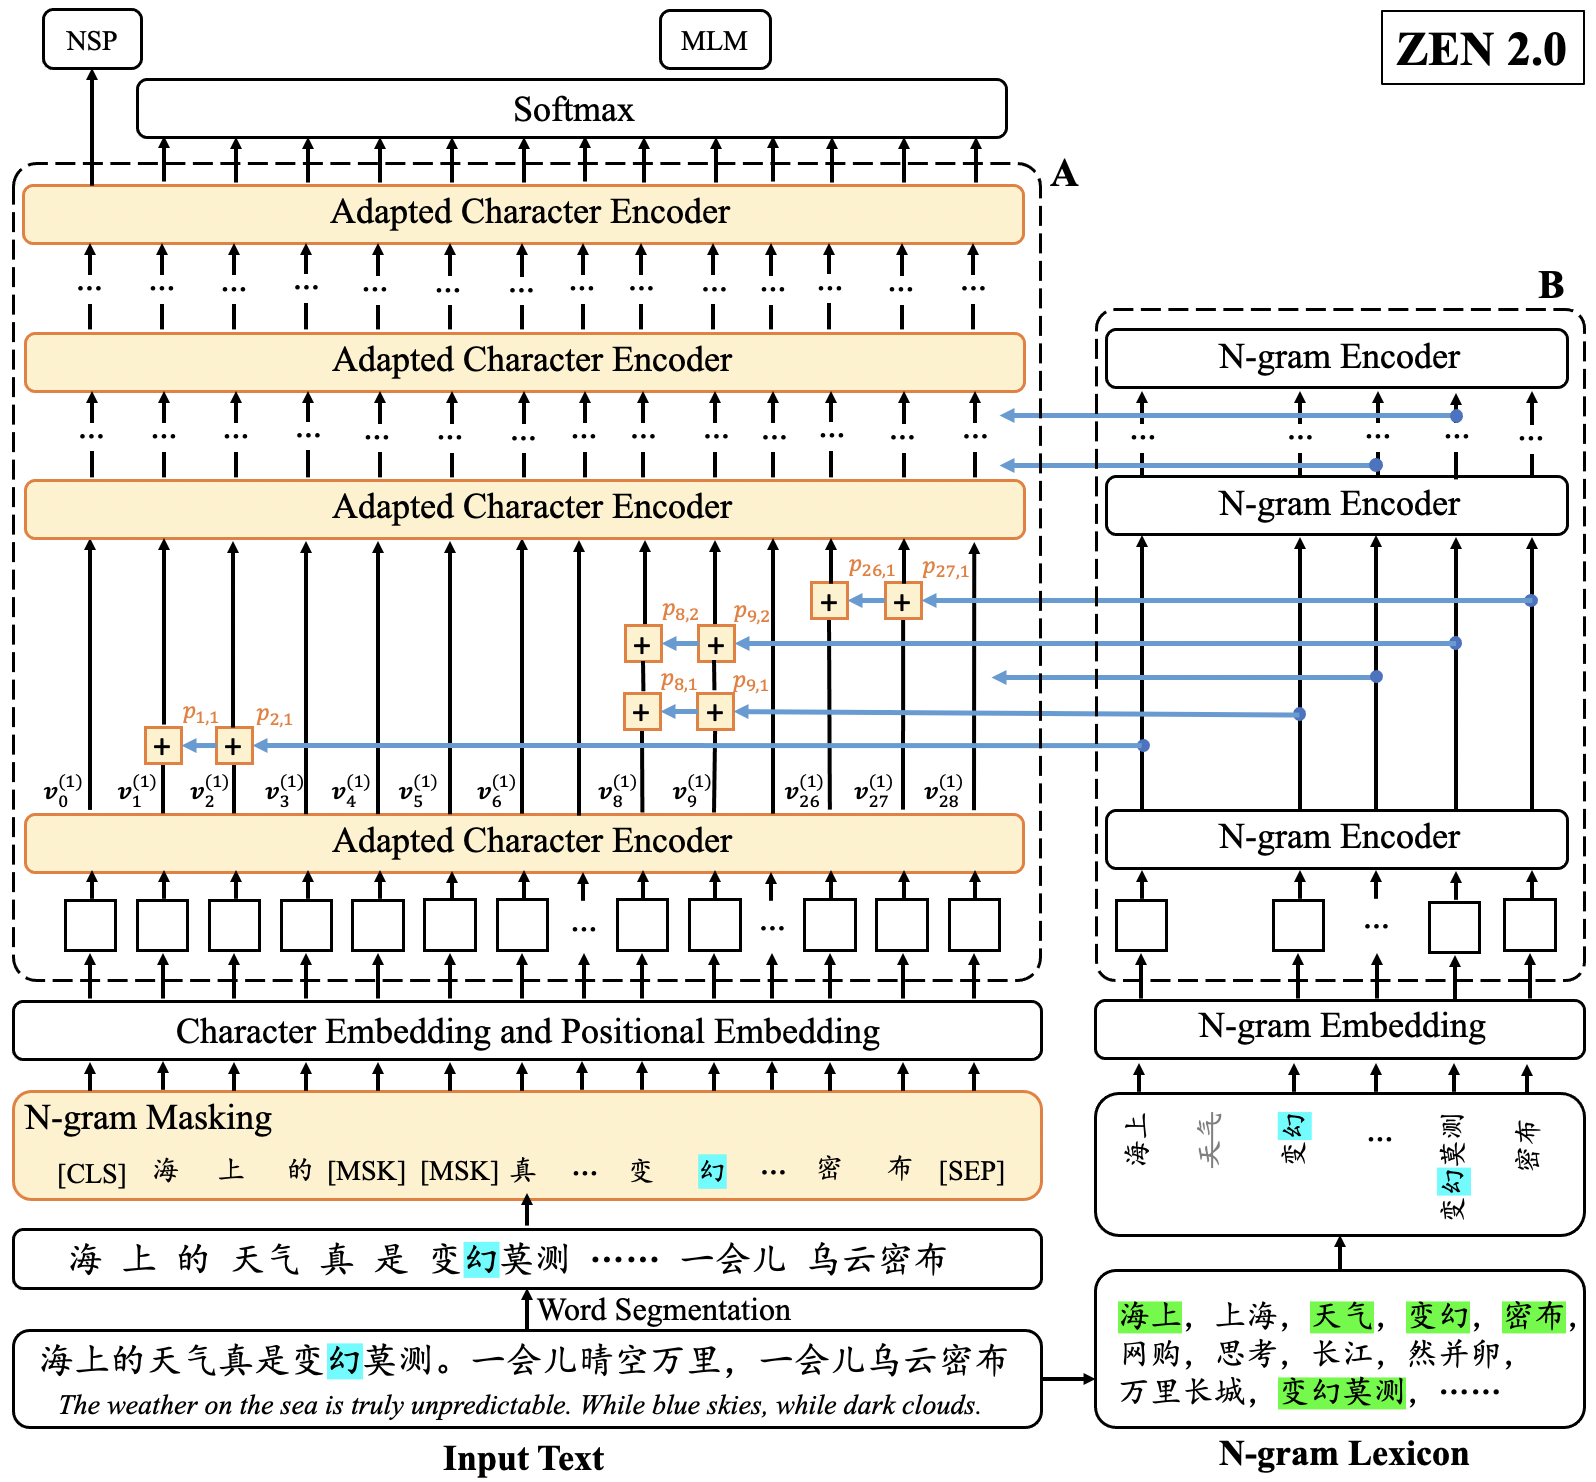
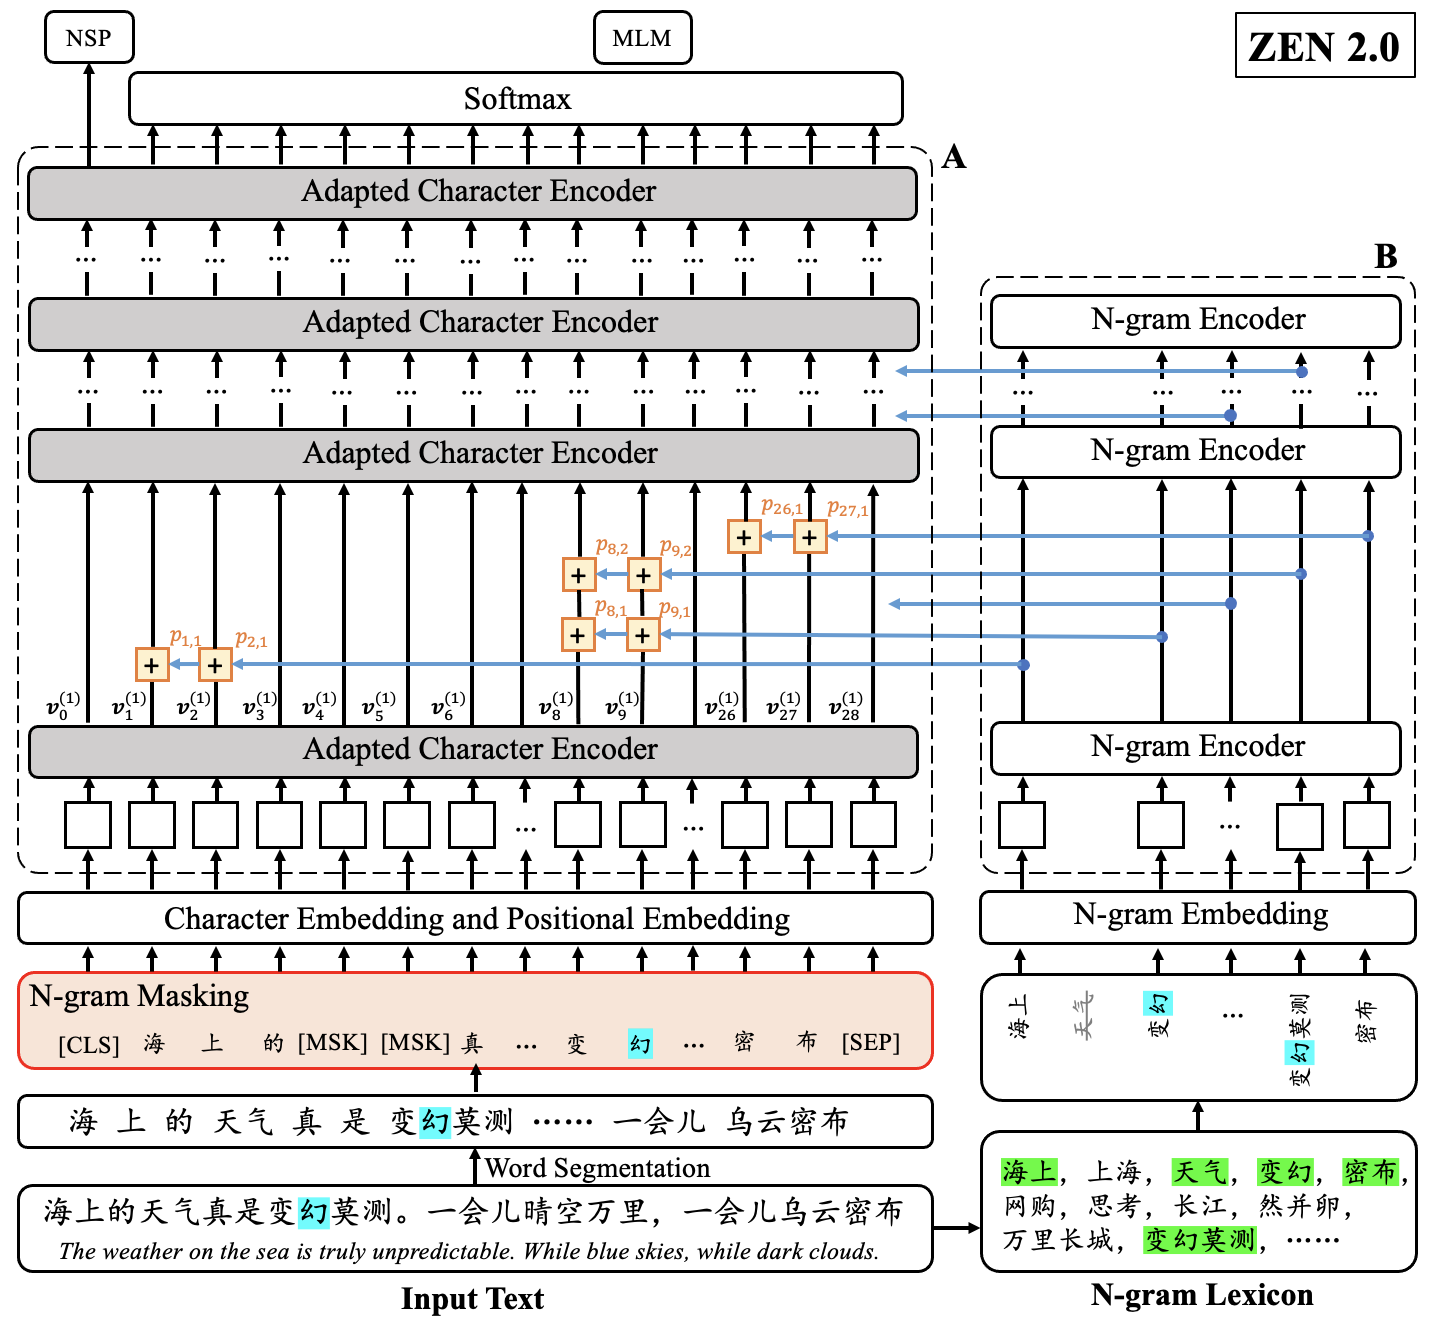
update readme

Changed region(s): [[0.0, 0.0, 1.0, 1.0], [0.8579, 0.0, 1.0, 0.0617], [0.3983, 0.0, 0.4903, 0.0617]]

diff --git a/docs/README.md b/docs/README.md
@@ -1,0 +1,16 @@
+## Differences between ZEN 2.0 and ZEN 1.0
+
+The overall architecture of ZEN 2.0 is illustrated in the following figure, where the three updates are highlighted in different colors.
+
+![ZEN2](./figures/overview.png)
+
+- **Refined N-gram Representations** (Highlighted in Yellow)  
+In ZEN 1.0, n-gram representations are directly added to the associated character representation,
+whereas in ZEN 2.0, we apply a weight *p<sub>i,k</sub>* to the *i*-th character and the *k*-th n-gram when using the n-gram representation to enhance the character representation.
+
+- **Whole N-gram Masking** (Highlighted in Red)  
+ZEN 1.0 uses word-piece (character) masking where randomly selected characters are replaced by a special token `[MASK]`.
+In ZEN 2.0, we firstly use a tokenizer to segment the input into n-grams and then mask the input based on the resulting n-grams rather than the word-pieces (characters).
+
+- **Relative Positional Encoding** (Highlighted in Gray)  
+ZEN 1.0 uses the vanilla Transformer for character encoder. However, ZEN 2.0 uses Adapted Transformer with relative positional encoding, where the relative position information of the input is modeled during the encoding process.

diff --git a/README.md b/README.md
@@ -10,7 +10,7 @@ In the training stage, we mask n-grams/words, rather than characters, in the inp
 - **Relative Positional Encoding**  
 We utilize relative positional encoding for the character encoder to model direction and distance information from the input text.
 
-The structure of ZEN 2.0 is illustrated in the following figure. We elaborate the differences between ZEN 2.0 and ZEN 1.0 at [here](./docs/README.md)
+The structure of ZEN 2.0 is illustrated in the following figure. We elaborate the differences between ZEN 2.0 and ZEN 1.0 at [here](./docs/README.md).
 　
 
 ![ZEN_model](./docs/figures/ngram_representation.png)
